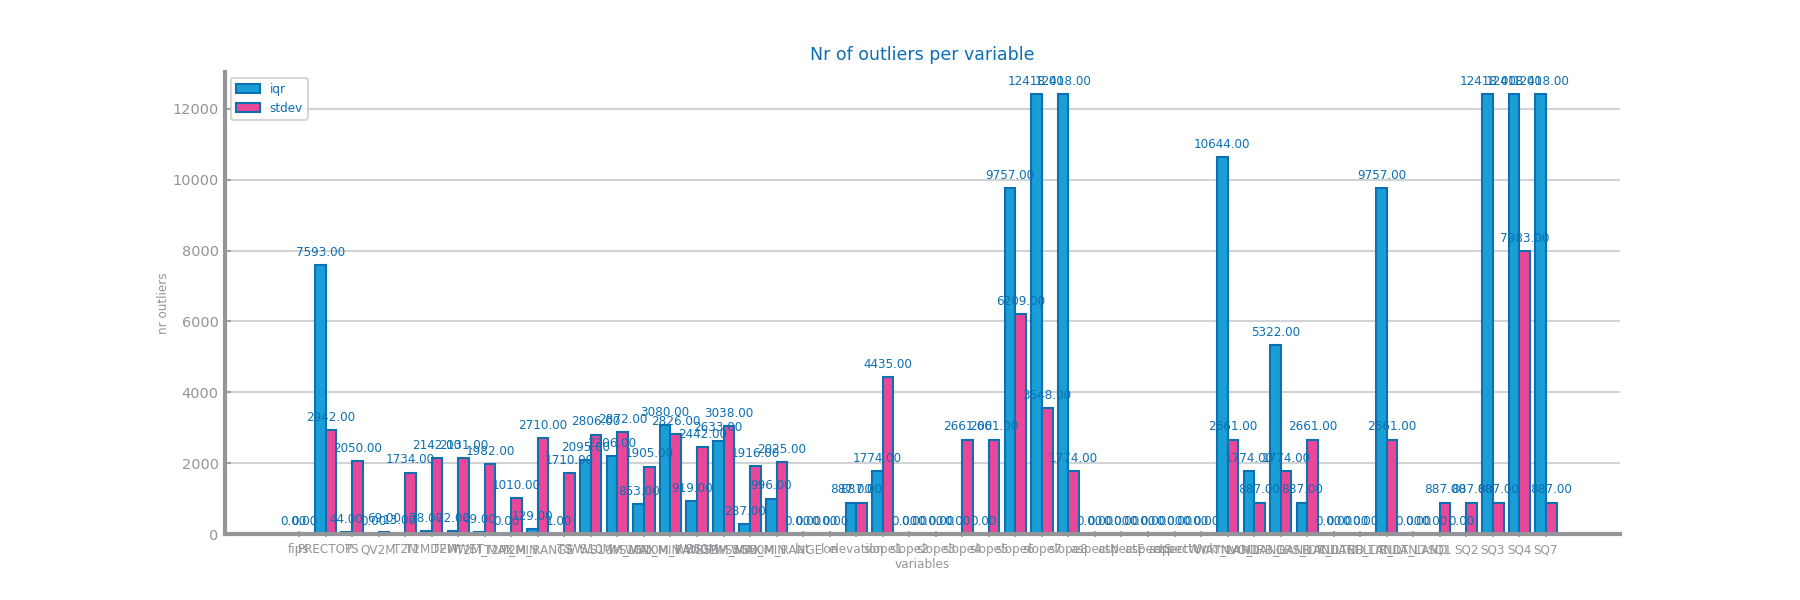
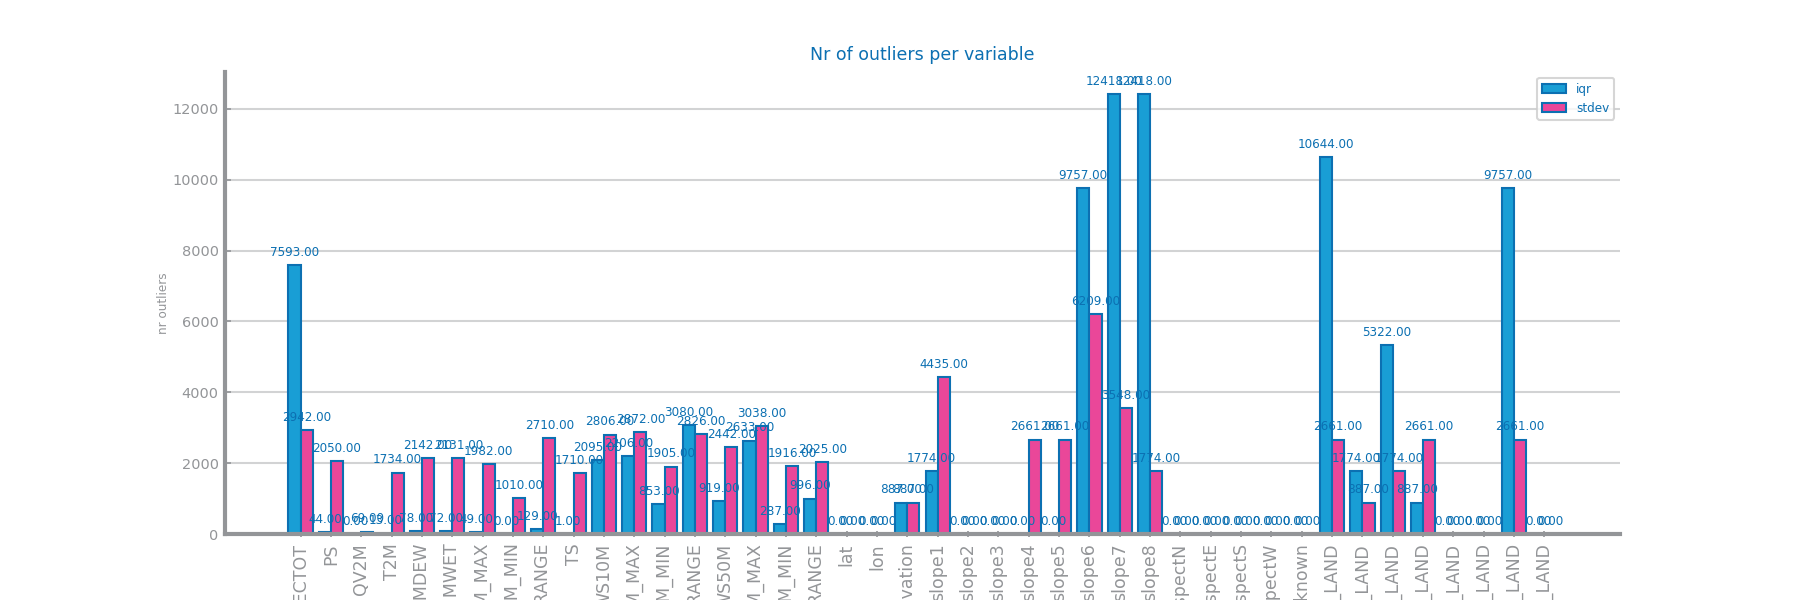
redone some graphics

Changed region(s): [[0.1556, 0.12, 0.9022, 1.0], [0.1244, 0.12, 0.1867, 0.21]]

diff --git a/climate/src/ds_charts.py b/climate/src/ds_charts.py
@@ -58,7 +58,7 @@ def set_locators(xvalues: list, ax: Axes = None, rotation: bool=False):
         return None
     elif isinstance(xvalues[0], str):
         if rotation:
-            ax.set_xticklabels(xvalues, rotation='90', fontsize='small', ha='center')
+            ax.set_xticklabels(xvalues, rotation='vertical', fontsize='small', ha='center')
         else:
             ax.set_xticklabels(xvalues, fontsize='small', ha='center')
         return None
@@ -95,8 +95,9 @@ def bar_chart(xvalues: list, yvalues: list, ax: Axes = None, title: str = '', xl
         ax.text(i, yvalues[i] + TEXT_MARGIN, f'{yvalues[i]:.2f}', ha='center', fontproperties=FONT_TEXT)
 
 
-def multiple_bar_chart(xvalues: list, yvalues: dict, ax: Axes = None, title: str = '', xlabel: str = '', ylabel: str = '', percentage: bool = False, unit=1):
+def multiple_bar_chart(xvalues: list, yvalues: dict, ax: Axes = None, title: str = '', xlabel: str = '', ylabel: str = '', percentage: bool = False, rotation: bool = False, unit=1):
     ax = set_elements(ax=ax, title=title, xlabel=xlabel, ylabel=ylabel, percentage=percentage, unit=unit)
+    set_locators(xvalues, ax=ax, rotation=rotation)
     ngroups = len(xvalues)
     nseries = len(yvalues)
     pos_group = arange(ngroups)

diff --git a/climate/src/main.py b/climate/src/main.py
@@ -123,7 +123,7 @@ def nr_of_outliers_per_numeric_variable():
 
   outliers = {'iqr': outliers_iqr, 'stdev': outliers_stdev}
   figure(figsize=(12, HEIGHT))
-  multiple_bar_chart(numeric_vars, outliers, title='Nr of outliers per variable', xlabel='variables', ylabel='nr outliers', percentage=False)
+  multiple_bar_chart(numeric_vars, outliers, title='Nr of outliers per variable', xlabel='variables', ylabel='nr outliers', percentage=False, rotation=True)
   savefig('climate/images/outliers.png')
   show()
 
@@ -190,8 +190,9 @@ def histogram_with_distributions_per_numeric_variable():
   for n in range(len(numeric_vars)):
       histogram_with_distributions(axs[i, j], data[numeric_vars[n]].dropna(), numeric_vars[n])
       i, j = (i + 1, 0) if (n+1) % cols == 0 else (i, j + 1)
-  savefig('images/histogram_numeric_distribution.png')
+  savefig('climate/images/histogram_numeric_distribution.png')
   show()
 
+
 if __name__ == "__main__":
-  nr_of_variables_per_type()
+  histogram_with_distributions_per_numeric_variable()
